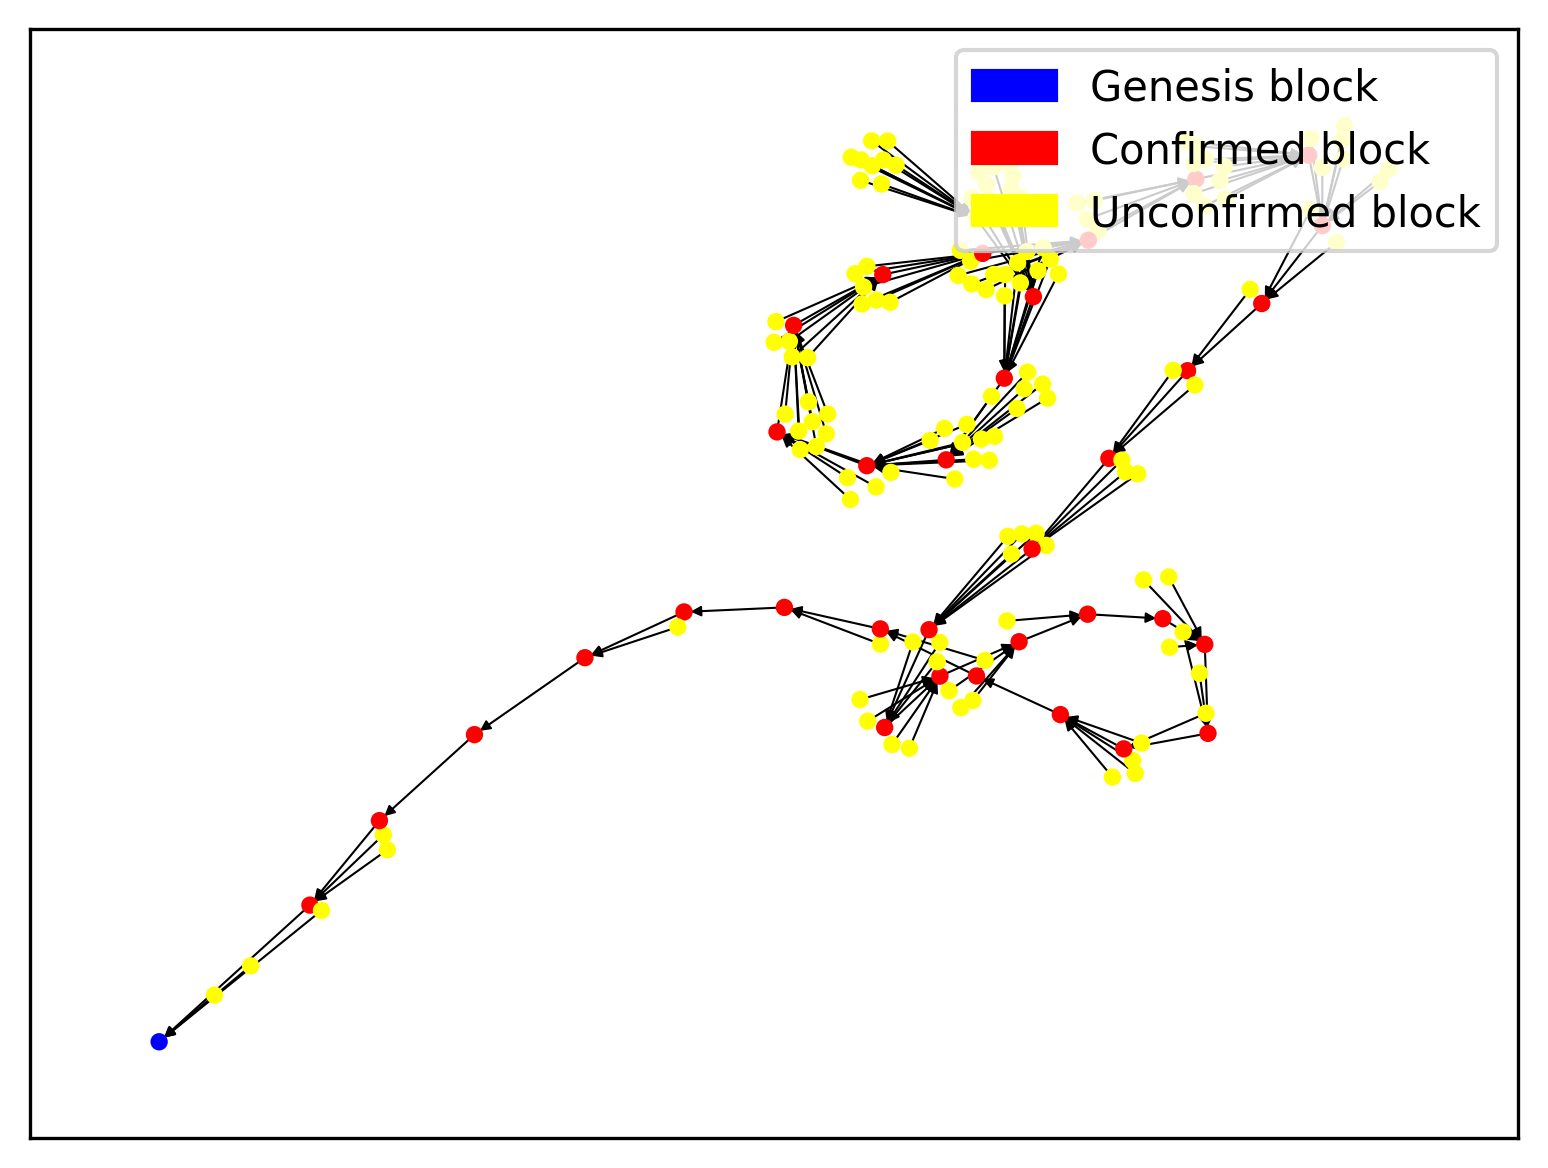
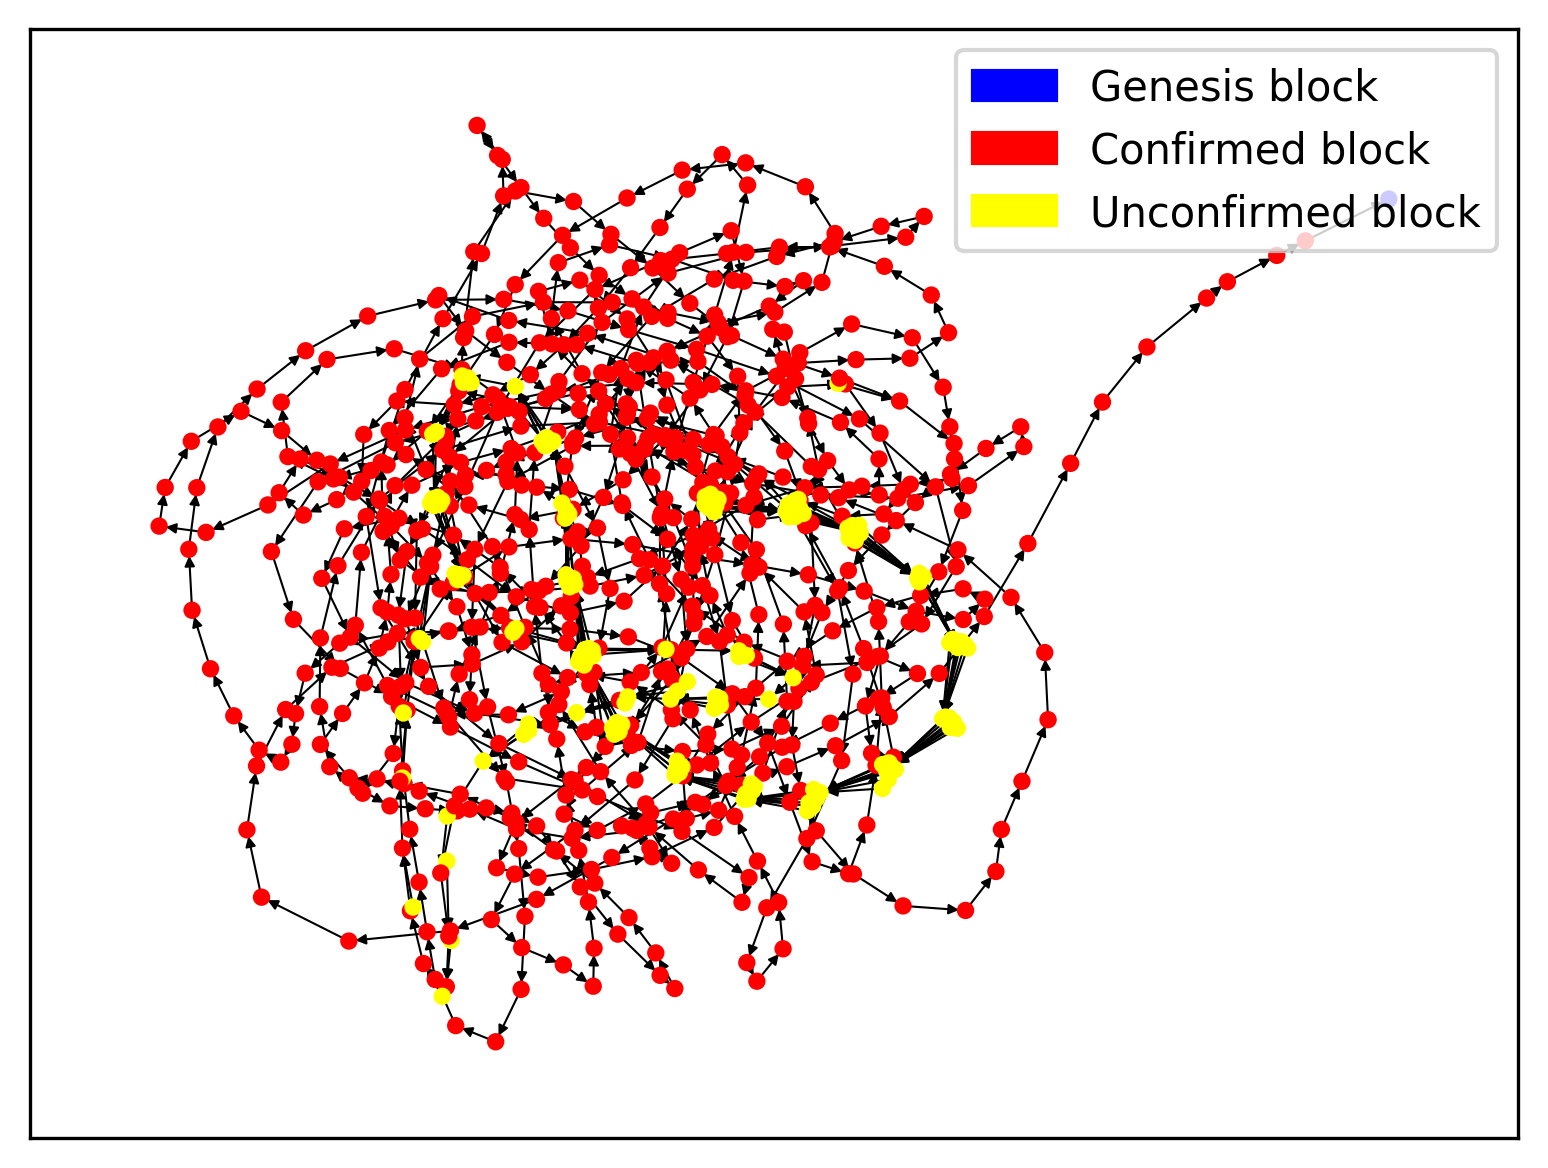
added stats

diff --git a/bitcoin_p2p.py b/bitcoin_p2p.py
@@ -17,7 +17,7 @@ class PriorityEntry(object):
 np.random.seed(765)
 
 class node:
-    def __init__(self, id, is_slow, genesis_block, Tk=10):
+    def __init__(self, id, is_slow, genesis_block, hashing_fraction=1/10, TIME=10*60):
         self.id = id
         self.is_slow = is_slow
         self.peers = []
@@ -27,7 +27,12 @@ class node:
         self.last_received_block = -1
         self.block_chain = {genesis_block.id: 0}
         self.err_epsilon = 1e-6
-        self.Tk = Tk
+        self.Tk = TIME / hashing_fraction
+        self.hashing_fraction = hashing_fraction
+
+        # data/stats
+        self.num_blocks = 0
+        self.confirmed_blocks = 0
     def add_peer(self, other):
         if other not in self.peers:
             self.peers.append(other)
@@ -68,25 +73,26 @@ class Block:
             print(f"id: {self.id}, GENESIS, length: {self.length}")
         return self.txns.keys()
 class Simulator:
-    def __init__(self, n, z, Ttx, Tks):
+    def __init__(self, n, z, Ttx, hashing_fractions):
         self.n = n
         self.z = z
         self.Ttx = Ttx
-        self.Tks = Tks
+        self.hashing_fractions = hashing_fractions
         self.genesis_block = Block(None, {}, {i:0 for i in range(self.n)}, None)
         self.block_chain = {self.genesis_block.id:self.genesis_block}
         num_slow = int(round(n * z))
-        self.nodes = [node(i, i<=num_slow, self.genesis_block, Tk=Tks[i]) for i in range(n)]
+        self.nodes = [node(i, i<=num_slow, self.genesis_block, hashing_fraction=hashing_fractions[i]) for i in range(n)]
         self.form_network()
         self.txns = {}
         self.event_queue = PriorityQueue(0)
         self.event_space = {"gen_block": self.gen_block, "send_block": self.send_block, "receive_block": self.receive_block, "gen_transaction": self.gen_transaction, "receive_transaction": self.receive_transaction}
         self.time = 0
         self.MAX_TIME = 100
-        self.MAX_NUM_EVENTS = 5000
+        self.MAX_NUM_EVENTS = 500000
         self.MAX_NUM_TRANSACTIONS = 1000
         self.MINING_REWARD = 50
         self.eps = 1e-7
+
         for i in range(self.n):
             self.event_queue.put(PriorityEntry(0, ("gen_block", i)))
             self.event_queue.put(PriorityEntry(0, ("gen_transaction", i)))
@@ -95,33 +101,42 @@ class Simulator:
         added = [perm[0]]
         for i in perm[1:]:
             peer = np.random.choice(added)
+            added.append(i)
             self.nodes[peer].add_peer(self.nodes[i])
             self.nodes[i].add_peer(self.nodes[peer])
-        deg = 3
+        deg = min(1, self.n)
         perm.reverse()
         for i in perm:
             peers = np.random.choice(perm, size=deg, replace=False)
             for peer in peers:
                 self.nodes[peer].add_peer(self.nodes[i])
                 self.nodes[i].add_peer(self.nodes[peer])
+        for i in range(self.n):
+            print(f'Neighbours of {i}: {[peer.id for peer in self.nodes[i].peers]}')
     def simulate(self):
         count_events = 0
-        while not self.event_queue.empty() and count_events < self.MAX_NUM_EVENTS:
+        while not self.event_queue.empty():
             count_events += 1
             entry = self.event_queue.get()
             time, event = entry.priority, entry.data
             event_func, event_params = event
-            print(f"Executing {event_func} at {time}, {event_params}")
-            new_events = self.event_space[event_func](event_params, time)
-            for new_time, new_event in new_events:
-                print(f"Adding new {new_event[0]} for {new_time}, {new_event[1]}")
-                self.event_queue.put(PriorityEntry(new_time, new_event))
-            self.time = time
-        for block_id, block in self.block_chain.items():
-            print(f"{block_id}")
-            txn_ids = block.print()
-            for txn_id in txn_ids:
-                self.txns[txn_id].print()
+            # print(f"Executing {event_func} at {time}, {event_params}")
+            if count_events < self.MAX_NUM_EVENTS:
+                print(count_events)
+                new_events = self.event_space[event_func](event_params, time)
+                for new_time, new_event in new_events:
+                    # print(f"Adding new {new_event[0]} for {new_time}, {new_event[1]}")
+                    self.event_queue.put(PriorityEntry(new_time, new_event))
+                self.time = time
+            else:
+                if event_func.split("_")[1] == "block":
+                    print(f"Abandoned {event_func} at {time}, {event_params}")
+        
+        # for block_id, block in self.block_chain.items():
+        #     print(f"{block_id}")
+        #     txn_ids = block.print()
+        #     for txn_id in txn_ids:
+        #         self.txns[txn_id].print()
     def gen_transaction(self, params, time):
         i = params
         idx, node = i, self.nodes[i]
@@ -196,6 +211,7 @@ class Simulator:
         node = self.nodes[i]
         new_events = []
         if node.last_received_block < gen_time:
+            node.num_blocks += 1
             for peer in node.peers:
                 if peer.id not in node.history.get(block_id, []):
                     print(f"{i} sent block {block.id} to {peer.id}")
@@ -218,7 +234,7 @@ class Simulator:
         node = self.nodes[i]
         new_events = []
         block = self.block_chain[block_id]
-        print(f"{i} received block {block.id} from {sender}")
+        # print(f"{i} received block {block.id} from {sender}")
         if self.is_valid_block(block_id):
             if block_id not in node.block_chain.keys():
                 node.block_chain[block_id] = time
@@ -247,7 +263,7 @@ class Simulator:
     def is_valid_block(self, block_id):
         return True
     def get_inter_arrival(self):
-        return 20 #np.random.exponential(self.Ttx)
+        return np.random.exponential(self.Ttx)
     def find_confirm_chain(self):
         node_wise_last_blocks_temp = []
         min_length = len(self.block_chain)
@@ -273,6 +289,17 @@ class Simulator:
                 backtrack = False
                 confirm_block = node_wise_last_blocks_temp[0]
         return confirm_block
+    def compute_confirmed_blocks_per_node(self):
+        confirm_block = self.find_confirm_chain()
+        cur_block = confirm_block
+        for i in range(self.n):
+            self.nodes[i].confirmed_blocks = 0
+        while True:
+            if cur_block is not None and cur_block.miner is not None:
+                self.nodes[cur_block.miner.id].confirmed_blocks += 1
+                cur_block = cur_block.parent
+            else:
+                break
     def show_blockchain(self):
         confirm_block = self.find_confirm_chain()
         tree = nx.DiGraph()
@@ -306,11 +333,42 @@ class Simulator:
         plt.legend(handles=[genesis_patch, confirmed_patch, unconfirmed_patch], loc="upper right")        
         plt.savefig('blockchain.png', dpi=300, bbox_inches='tight')
         plt.show()
+    def print_block_chain_all_nodes(self):
+        for i in range(self.n):
+            print(f" -- Node {i} -- ")
+            self.nodes[i].longest_chain_block.print()
+    def plot_confirmed_per_gen_block(self):
+        self.compute_confirmed_blocks_per_node()
+        x = [i for i in range(self.n)]
+        tick_label = [str(self.nodes[i].hashing_fraction) for i in range(self.n)]
+        y = [self.nodes[i].confirmed_blocks / self.nodes[i].num_blocks if self.nodes[i].num_blocks > 0 else 0 for i in range(self.n)]
+        # print(y)
+        plt.bar(x,y,tick_label=tick_label, width=0.8)
+        plt.xlabel('Hashing fraction')
+        plt.ylabel('Ratio of contributed blocks to generated blocks')
+        plt.show()
+    def plot_fraction_of_confirmed_blocks(self):
+        self.compute_confirmed_blocks_per_node()
+        x = [i for i in range(self.n)]
+        tick_label = [str(self.nodes[i].hashing_fraction) for i in range(self.n)]
+        total_confirmed_blocks = self.find_confirm_chain().length
+        y = [self.nodes[i].confirmed_blocks / total_confirmed_blocks for i in range(self.n)]
+        plt.bar(x,y,tick_label=tick_label, width=0.8)
+        plt.xlabel('Hashing fraction')
+        plt.ylabel('Fraction of contributed blocks')
+        plt.show()
+
 
 if __name__ == '__main__':
-    Tks = [100, 90, 80, 70, 60, 55, 50, 45, 40, 30]
-    # Tks = [100, 100, 100, 100, 100, 100, 100, 100, 100, 10]
-    np.random.shuffle(Tks)
-    sim = Simulator(10, 0, 10, Tks)
+    hfs = [0.1 for i in range(10)]
+    hfs = [0.4] + [0.6/9 for i in range(9)]
+    # hfs = [0.7, 0.3]
+    #Tks = [100, 90, 80, 70, 60, 55, 50, 45, 40, 30]
+    #Tks = [100, 100, 100, 100, 100, 100, 100, 100, 100, 10]
+    np.random.shuffle(hfs)
+    sim = Simulator(10, 0, 100, hfs)
     sim.simulate()
     sim.show_blockchain()
+    sim.plot_confirmed_per_gen_block()
+    sim.plot_fraction_of_confirmed_blocks()
+    sim.print_block_chain_all_nodes()
